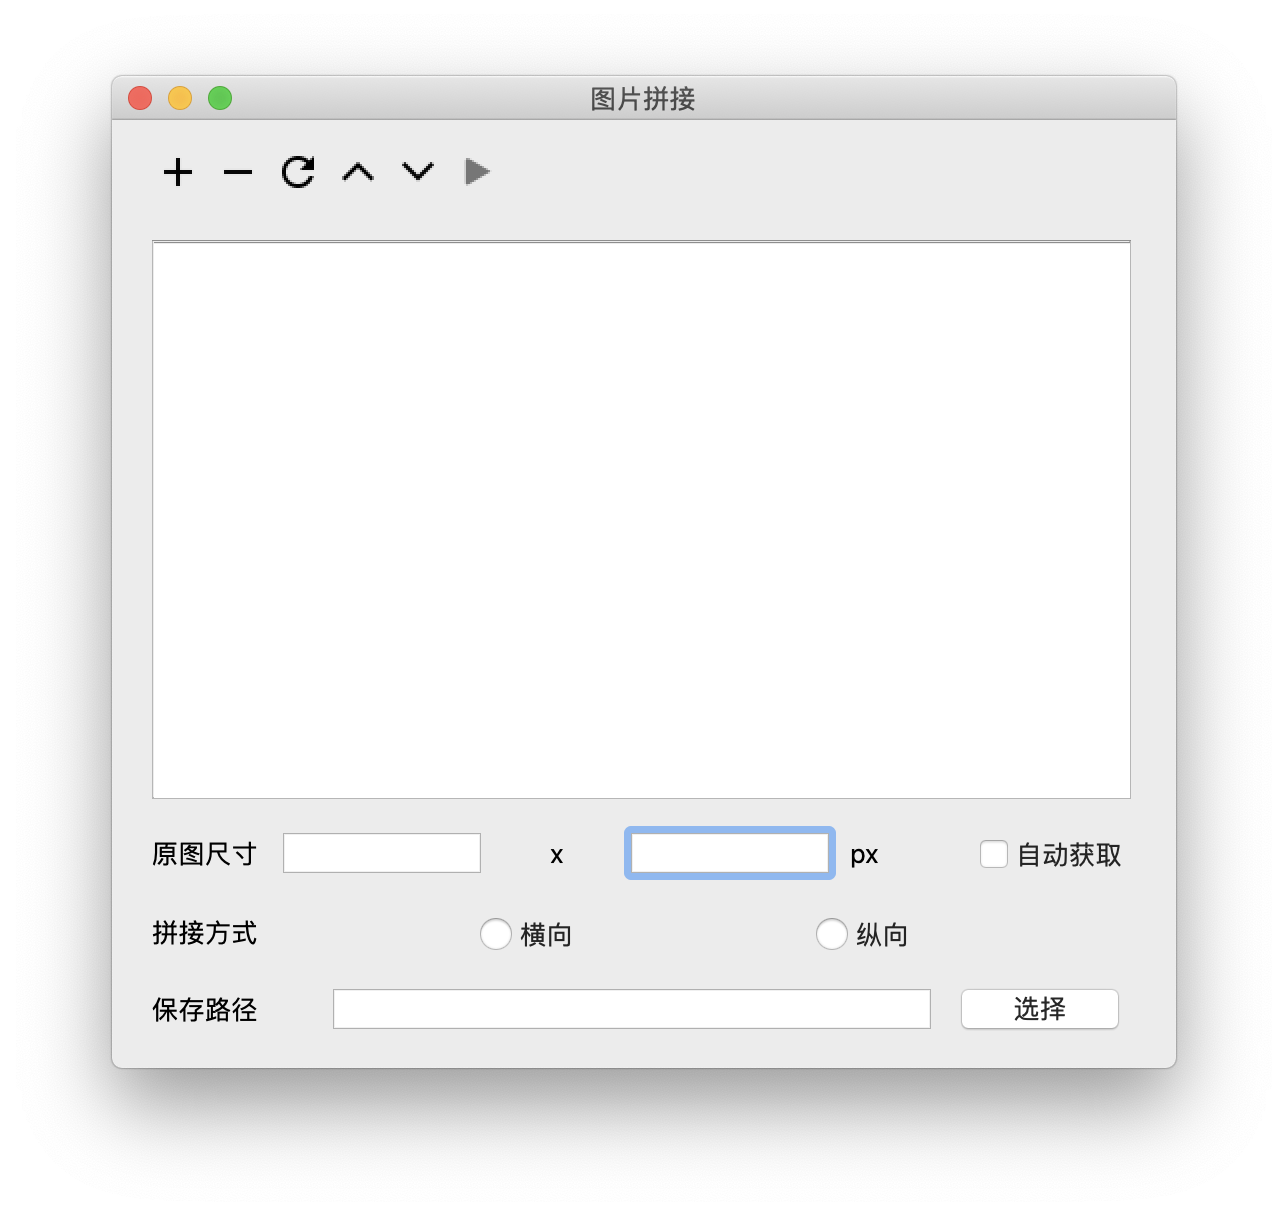
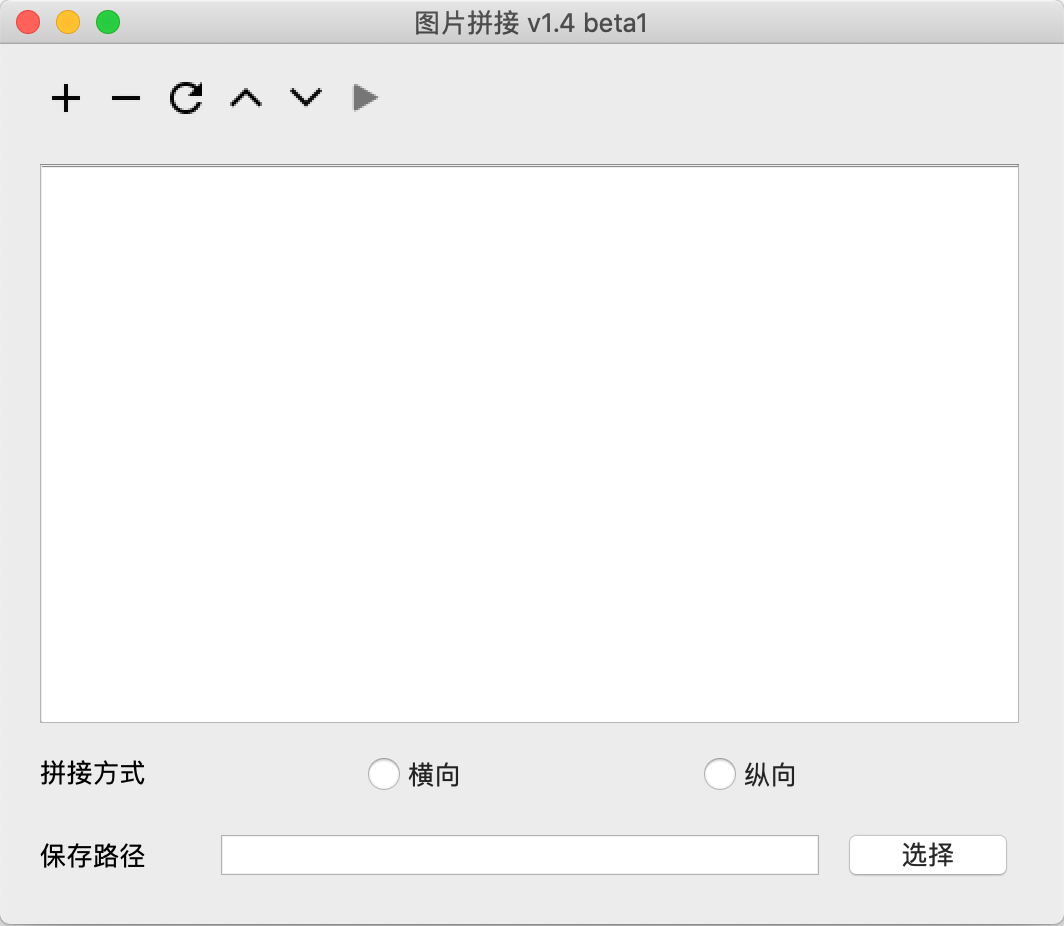
改进算法，修复最终图像可能因为小图宽高不一致而出现拉伸、挤压变形的问题

diff --git a/image_merge.py b/image_merge.py
@@ -30,17 +30,18 @@ class MainWindow(QtWidgets.QMainWindow,Ui_Form):
         self.removeImageButton.clicked.connect(self.removeImage)
         self.image_save_choose.clicked.connect(self.chooseSaveFile)
         pIntValidator = QIntValidator(self)
-        self.image_column_size_Edit.setValidator(pIntValidator)
-        self.image_row_size_Edit.setValidator(pIntValidator)
-        self.image_column_size_Edit.textChanged.connect(self.handleTextChanged)
-        self.image_row_size_Edit.textChanged.connect(self.handleTextChanged)
+        # self.image_column_size_Edit.setValidator(pIntValidator)
+        # self.image_row_size_Edit.setValidator(pIntValidator)
+        # self.image_column_size_Edit.textChanged.connect(self.handleTextChanged)
+        # self.image_row_size_Edit.textChanged.connect(self.handleTextChanged)
         self.merge_column_radio.clicked.connect(self.handleRadioChanged)
         self.merge_row_radio.clicked.connect(self.handleRadioChanged)
         self.startButton.clicked.connect(self.mergeImage)
         self.resetButton.clicked.connect(self.reset)
         self.upButton.clicked.connect(self.sortItemUp)
         self.downButton.clicked.connect(self.sortItemDown)
-        self.auto_size.clicked.connect(self.autoSize)
+        # self.auto_size.clicked.connect(self.autoSize)
+        self.autoSize()
     #用户选择原图片路径
     def chooseImagePath(self):
         self.image_path, filetype=QFileDialog.getOpenFileNames(self,
@@ -57,18 +58,17 @@ class MainWindow(QtWidgets.QMainWindow,Ui_Form):
              else:
                  self.image_items_ready=0
              self.checkInput()
-                 #self.startbutton.setenabled(true)
-        print(self.image_names)
+          
     def checkImage(self,index):
          r=self.listWidget.currentRow()
          self.f=r
-         #print(self.f)
+       
     def removeImage(self,QAction):
         try:
             self.listWidget.removeItemWidget(self.listWidget.takeItem(self.f))
             del self.image_names[self.f]
             if len(self.image_names)<2:
-#                self.startButton.setEnabled(False)
+#                
                  self.image_items_ready=0
                  self.checkInput()
         except AttributeError as e:
@@ -96,8 +96,8 @@ class MainWindow(QtWidgets.QMainWindow,Ui_Form):
         self.checkInput()
     def reset(self):
         self.image_names=[]
-        self.image_size_ready=0
-        self.merge_radio_ready=0
+        # self.image_size_ready=0
+        # self.merge_radio_ready=0
         self.image_save_path_ready=0
         self.image_items_ready=0
         #self.merge_column=0
@@ -106,8 +106,8 @@ class MainWindow(QtWidgets.QMainWindow,Ui_Form):
         self.image_save_path_Edit.clear()
         self.merge_column_radio.setChecked(False)
         self.merge_row_radio.setChecked(False)
-        self.image_column_size_Edit.clear()
-        self.image_row_size_Edit.clear()
+        # self.image_column_size_Edit.clear()
+        # self.image_row_size_Edit.clear()
         self.startButton.setEnabled(False)
         self.auto_size.setChecked(False)
     def handleTextChanged(self):
@@ -179,52 +179,81 @@ class MainWindow(QtWidgets.QMainWindow,Ui_Form):
             else:
                 self.startButton.setEnabled(False)
     def autoSize(self):
-        if self.auto_size.isChecked():
-            self.image_column_size_Edit.setEnabled(False)
-            self.image_row_size_Edit.setEnabled(False)
-            self.image_size_ready=1
-            self.checkInput()
+        # if self.auto_size.isChecked():
+        # self.auto_size.setChecked(True)
+        # self.image_column_size_Edit.setEnabled(False)
+        # self.image_row_size_Edit.setEnabled(False)
+        self.image_size_ready=1
+        self.checkInput()
 
-        else:
-            self.image_column_size_Edit.setEnabled(True)
-            self.image_row_size_Edit.setEnabled(True)
-            self.image_size_ready=0
-            self.checkInput()
+        # else:
+        #     self.image_column_size_Edit.setEnabled(True)
+        #     self.image_row_size_Edit.setEnabled(True)
+        #     self.image_size_ready=0
+        #     self.checkInput()
 
 
     #拼接开始
     def mergeImage(self):
         # print(self.image_names)
         # exit()
-        if self.auto_size.isChecked:
-            image=self.image_names[0]
-            im = Image.open(image)
-            self.image_column_size=int(im.size[0])
+        if 2>1:
+            # image=self.image_names[0]
+            self.image_column_size_arr=[]
+            self.image_row_size_arr=[]
+            for item in self.image_names:
+                im = Image.open(item)
+                image_column_size=int(im.size[0])
+                image_row_size=int(im.size[1])
+                self.image_column_size_arr.append(image_column_size)
+                self.image_row_size_arr.append(image_row_size)
+            self.image_column_size=sum(self.image_column_size_arr)
             # print(self.image_column_size)
-            self.image_row_size=int(im.size[1])
+            self.image_row_size=sum(self.image_row_size_arr)
             # print(self.image_row_size)
             # exit()
         if self.merge_column==1:
             image_column=len(self.image_names)
             image_row=1
+            to_image = Image.new('RGB', (self.image_column_size, max(self.image_row_size_arr))) #创建一个新图
         if self.merge_row==1:
             image_column=1
-            image_row=len(self.image_names) 
-        to_image = Image.new('RGB', (image_column * self.image_column_size, image_row * self.image_row_size)) #创建一个新图
+            image_row=len(self.image_names)
+            to_image = Image.new('RGB', (max(self.image_column_size_arr), self.image_row_size)) #创建一个新图
+        
         if self.filetype=='JPEG (*.jpg;*.jpeg;*.jpe;*.jfif)' and to_image.size[0]>65535 or to_image.size[1]>65535:
             QMessageBox.warning(self,'图片尺寸错误','JPG类型图片长宽不得大于65535px')
             return False
-            # 循环遍历，把每张图片按顺序粘贴到对应位置上
+            # 循环遍历，把每张图片按顺序粘贴到对应位置上，当横向拼接时x轴定位为第一张图片到上一张图片的宽度总和，Y轴定位为0
+            # 当纵向拼接时x轴定位为0，y轴定位为第一张图片到上一张图片的高度总和
+      
+        marge_wide_arr=[]
+        marge_high_arr=[]
+        
         for y in range(1, image_row + 1):
             for x in range(1, image_column + 1):
-
-                 from_image = Image.open(self.image_names[image_column * (y - 1) + x - 1]).resize(
-                    (self.image_column_size, self.image_row_size),Image.ANTIALIAS)
-                 to_image.paste(from_image, ((x - 1) * self.image_column_size, (y - 1) * self.image_row_size))
+                
+                from_image = Image.open(self.image_names[image_column * (y - 1) + x - 1])
+                previous_image = Image.open(self.image_names[(image_column * (y - 1) + x - 1)-1])#打开上一张图
+                if (image_column * (y - 1) + x - 1)-1==-1: #第一次循环得到的索引是-1，需要把粘贴宽高值设为起点0
+                    marge_wide=0
+                    marge_high=0
+                else:
+                    marge_wide=previous_image.size[0]#得到上一张图的宽
+                    marge_high=previous_image.size[1]#得到上一张图的高
+               
+                if self.merge_column==1:#当横向拼接时拼接图片的高度定位为0
+                    marge_high=0
+                if self.merge_row==1:#当纵向拼接时拼接图片的宽度定位为0
+                    marge_wide=0
+                marge_wide_arr.append(marge_wide)#将每一张小图的宽加入数组
+                marge_high_arr.append(marge_high)#将每一张小图的高加入数组
+                to_image.paste(from_image, (sum(marge_wide_arr), sum(marge_high_arr)))#拼接定位的宽高即为上面数组的和
+      
         try:
             to_image.save(self.save_file_url) # 保存新图
         except IOError:
-            #PIL.ImageFile.MAXBLOCK = image_column * self.image_column_size * image_row * self.image_row_size
             QMessageBox.error(self,'错误','请联系开发人员寻求支持！')
             return False
+            #PIL.ImageFile.MAXBLOCK = image_column * self.image_column_size * image_row * self.image_row_size
         QMessageBox.information(self,'提示','完成！')

diff --git a/image_merge_ui.py b/image_merge_ui.py
@@ -2,30 +2,31 @@
 
 # Form implementation generated from reading ui file 'image_merge.ui'
 #
-# Created by: PyQt5 UI code generator 5.10.1
+# Created by: PyQt5 UI code generator 5.14.1
 #
 # WARNING! All changes made in this file will be lost!
 
+
 from PyQt5 import QtCore, QtGui, QtWidgets
+
 
 class Ui_Form(object):
     def setupUi(self, Form):
         Form.setObjectName("Form")
         Form.setWindowModality(QtCore.Qt.ApplicationModal)
         Form.setEnabled(True)
-        Form.resize(532, 474)
-#        sizePolicy = QtWidgets.QSizePolicy(QtWidgets.QSizePolicy.Fixed, QtWidgets.QSizePolicy.Fixed)
-#        sizePolicy.setHorizontalStretch(0)
-#        sizePolicy.setVerticalStretch(0)
-#        sizePolicy.setHeightForWidth(Form.sizePolicy().hasHeightForWidth())
-#        Form.setSizePolicy(sizePolicy)
-        Form.setFixedSize(Form.width(), Form.height())
+        Form.resize(532, 440)
+        sizePolicy = QtWidgets.QSizePolicy(QtWidgets.QSizePolicy.Fixed, QtWidgets.QSizePolicy.Fixed)
+        sizePolicy.setHorizontalStretch(0)
+        sizePolicy.setVerticalStretch(0)
+        sizePolicy.setHeightForWidth(Form.sizePolicy().hasHeightForWidth())
+        Form.setSizePolicy(sizePolicy)
         font = QtGui.QFont()
         font.setFamily("Noto Sans CJK SC Regular")
         font.setPointSize(10)
         Form.setFont(font)
         self.gridLayoutWidget = QtWidgets.QWidget(Form)
-        self.gridLayoutWidget.setGeometry(QtCore.QRect(20, 10, 180, 34))
+        self.gridLayoutWidget.setGeometry(QtCore.QRect(20, 10, 180, 36))
         self.gridLayoutWidget.setObjectName("gridLayoutWidget")
         self.gridLayout = QtWidgets.QGridLayout(self.gridLayoutWidget)
         self.gridLayout.setContentsMargins(0, 0, 0, 0)
@@ -82,35 +83,8 @@ class Ui_Form(object):
         self.upButton.setIcon(icon5)
         self.upButton.setObjectName("upButton")
         self.gridLayout.addWidget(self.upButton, 0, 3, 1, 1)
-        self.gridLayoutWidget_3 = QtWidgets.QWidget(Form)
-        self.gridLayoutWidget_3.setGeometry(QtCore.QRect(20, 350, 490, 34))
-        self.gridLayoutWidget_3.setObjectName("gridLayoutWidget_3")
-        self.gridLayout_3 = QtWidgets.QGridLayout(self.gridLayoutWidget_3)
-        self.gridLayout_3.setContentsMargins(0, 0, 0, 0)
-        self.gridLayout_3.setObjectName("gridLayout_3")
-        self.auto_size = QtWidgets.QCheckBox(self.gridLayoutWidget_3)
-        self.auto_size.setObjectName("auto_size")
-        self.gridLayout_3.addWidget(self.auto_size, 0, 9, 1, 1)
-        self.image_row_size_Edit = QtWidgets.QLineEdit(self.gridLayoutWidget_3)
-        self.image_row_size_Edit.setMaximumSize(QtCore.QSize(100, 16777215))
-        self.image_row_size_Edit.setObjectName("image_row_size_Edit")
-        self.gridLayout_3.addWidget(self.image_row_size_Edit, 0, 7, 1, 1)
-        self.image_column_size_label = QtWidgets.QLabel(self.gridLayoutWidget_3)
-        self.image_column_size_label.setMaximumSize(QtCore.QSize(100, 16777215))
-        self.image_column_size_label.setObjectName("image_column_size_label")
-        self.gridLayout_3.addWidget(self.image_column_size_label, 0, 0, 1, 1, QtCore.Qt.AlignLeft)
-        self.image_row_size_label = QtWidgets.QLabel(self.gridLayoutWidget_3)
-        self.image_row_size_label.setObjectName("image_row_size_label")
-        self.gridLayout_3.addWidget(self.image_row_size_label, 0, 3, 1, 1, QtCore.Qt.AlignHCenter)
-        self.label = QtWidgets.QLabel(self.gridLayoutWidget_3)
-        self.label.setObjectName("label")
-        self.gridLayout_3.addWidget(self.label, 0, 8, 1, 1, QtCore.Qt.AlignLeft)
-        self.image_column_size_Edit = QtWidgets.QLineEdit(self.gridLayoutWidget_3)
-        self.image_column_size_Edit.setMaximumSize(QtCore.QSize(100, 16777215))
-        self.image_column_size_Edit.setObjectName("image_column_size_Edit")
-        self.gridLayout_3.addWidget(self.image_column_size_Edit, 0, 2, 1, 1)
         self.gridLayoutWidget_4 = QtWidgets.QWidget(Form)
-        self.gridLayoutWidget_4.setGeometry(QtCore.QRect(20, 390, 490, 34))
+        self.gridLayoutWidget_4.setGeometry(QtCore.QRect(20, 350, 490, 30))
         self.gridLayoutWidget_4.setObjectName("gridLayoutWidget_4")
         self.gridLayout_4 = QtWidgets.QGridLayout(self.gridLayoutWidget_4)
         self.gridLayout_4.setContentsMargins(0, 0, 0, 0)
@@ -125,7 +99,7 @@ class Ui_Form(object):
         self.merge_row_radio.setObjectName("merge_row_radio")
         self.gridLayout_4.addWidget(self.merge_row_radio, 0, 2, 1, 1)
         self.gridLayoutWidget_5 = QtWidgets.QWidget(Form)
-        self.gridLayoutWidget_5.setGeometry(QtCore.QRect(20, 430, 490, 34))
+        self.gridLayoutWidget_5.setGeometry(QtCore.QRect(20, 390, 490, 36))
         self.gridLayoutWidget_5.setObjectName("gridLayoutWidget_5")
         self.gridLayout_5 = QtWidgets.QGridLayout(self.gridLayoutWidget_5)
         self.gridLayout_5.setContentsMargins(0, 0, 0, 0)
@@ -156,7 +130,7 @@ class Ui_Form(object):
         self.scrollAreaWidgetContents.setObjectName("scrollAreaWidgetContents")
         self.listWidget = QtWidgets.QListWidget(self.scrollAreaWidgetContents)
         self.listWidget.setGeometry(QtCore.QRect(-5, 0, 500, 280))
-        self.listWidget.setSelectionMode(QtWidgets.QAbstractItemView.SingleSelection)
+        self.listWidget.setSelectionMode(QtWidgets.QAbstractItemView.ExtendedSelection)
         self.listWidget.setObjectName("listWidget")
         self.scrollArea.setWidget(self.scrollAreaWidgetContents)
 
@@ -165,18 +139,14 @@ class Ui_Form(object):
 
     def retranslateUi(self, Form):
         _translate = QtCore.QCoreApplication.translate
-        Form.setWindowTitle(_translate("Form", "图片拼接"))
+        Form.setWindowTitle(_translate("Form", "图片拼接 v1.4 beta1"))
         self.removeImageButton.setText(_translate("Form", "..."))
         self.downButton.setText(_translate("Form", "..."))
         self.startButton.setText(_translate("Form", "..."))
         self.resetButton.setText(_translate("Form", "..."))
         self.upButton.setText(_translate("Form", "..."))
-        self.image_column_size_label.setText(_translate("Form", "原图尺寸"))
-        self.image_row_size_label.setText(_translate("Form", "x"))
-        self.label.setText(_translate("Form", "px"))
         self.merge_type_label.setText(_translate("Form", "拼接方式"))
         self.merge_column_radio.setText(_translate("Form", "横向"))
         self.merge_row_radio.setText(_translate("Form", "纵向"))
         self.image_save_path_label.setText(_translate("Form", "保存路径"))
         self.image_save_choose.setText(_translate("Form", "选择"))
-        self.auto_size.setText(_translate("Form", "自动获取"))
